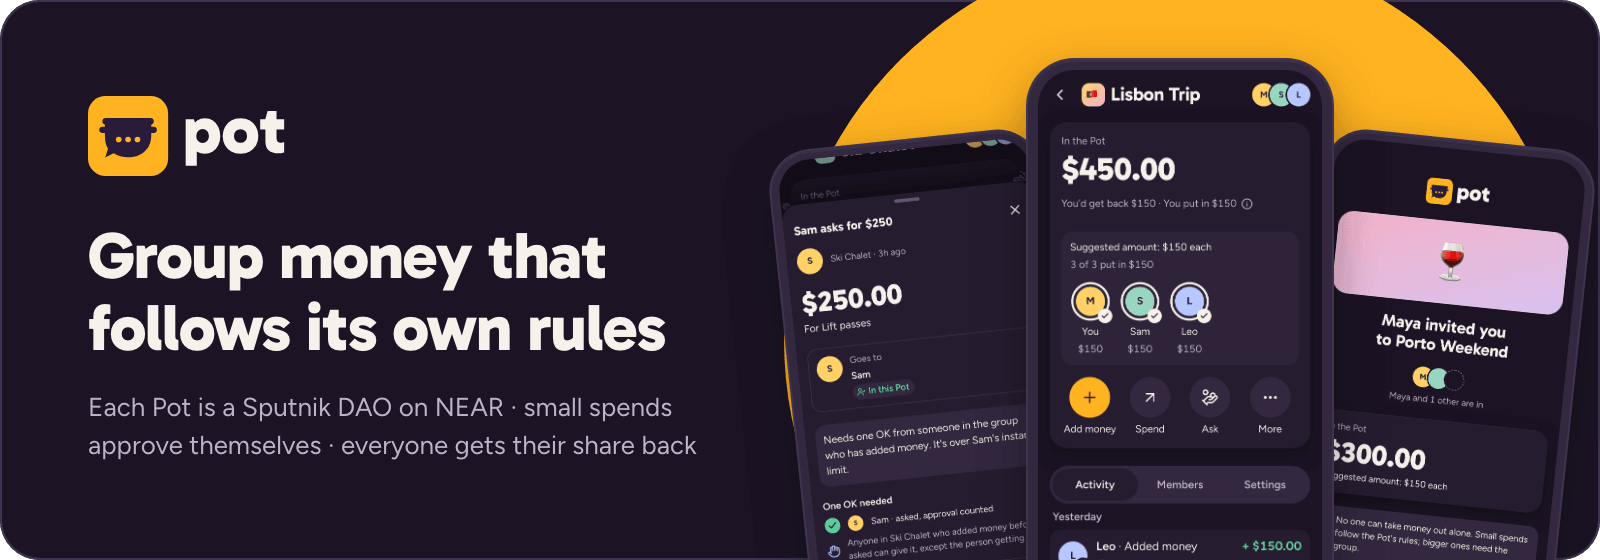
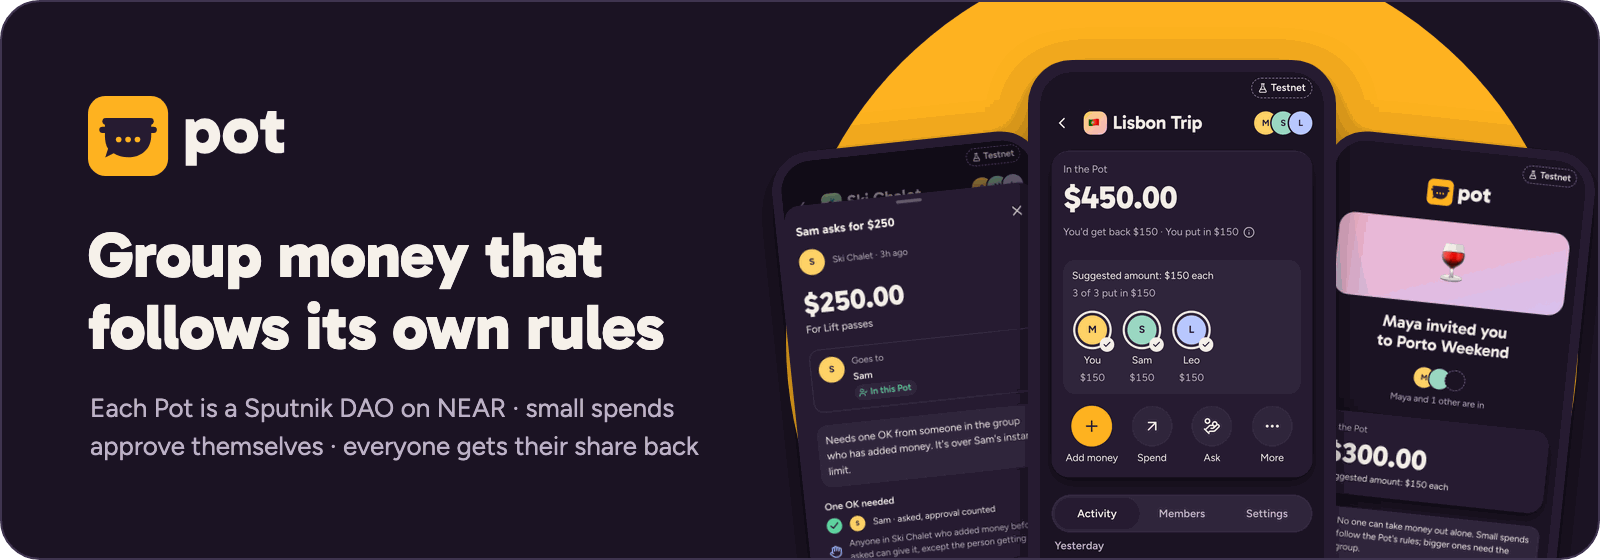
README visuals match the app again; the go-live runbook for RC-1
- six of the seven README images re-shot from the current mock build: the Testnet badge on every app screen,
  "Free test dollars" and "Test dollars" where the screens said demo dollars; alt text updated to match
- LAUNCH.md: what's prepared for the final testnet deploy and the go-live runbook, in order

diff --git a/LAUNCH.md b/LAUNCH.md
@@ -125,17 +125,26 @@ Goal by end of day: the app runs at `https://<project>.vercel.app` on testnet, `
 ## Days 11-12 (Nov 11-12): release and lock
 
 - [ ] **[Claude] Final regression** on the live URL: contracts, unit, mock e2e, integrations tier, the live backend suite, `scripts/e2e-chain.ts`, every testnet suite, the README CLI check.
-- [ ] **Final testnet deploy, before the lock.** Found by the blind AI-judge run on Nov 6 and held back until now on purpose: editing `Cargo.toml` changes the compiled wasm, and the deployed hub must stay identical to the source build until this redeploy.
-  - **[Claude]** Fix the hub's on-chain build info (NEP-330, the `contract_source_metadata` view). It reports `version: "1.0.0"` and `link: https://github.com/pot-app/pot`.
-    - Set `contracts/pot-hub/Cargo.toml` `version` to the hub's real version (the `version` that `get_config` returns).
-    - Point the repository at `https://github.com/ceraselamardare/pot`. The workspace `contracts/Cargo.toml` `repository` is inherited by `test-usdc` too. Change it there and redeploy the test token as well, or override `repository` in `pot-hub/Cargo.toml` only.
-    - Build without local file paths. A plain build embeds the builder's home-folder paths in panic messages. Use `--remap-path-prefix` in the rustc flags, or the Docker `reproducible-wasm` build, which also lets anyone reproduce the hash. Check that `strings target/near/pot_hub/pot_hub.wasm | grep /Users/` prints nothing.
-    - Rebuild (`./scripts/build.sh`). Run the contract tests. Then **[You]** approve the redeploy. Check with `contract_source_metadata`, and check that the deployed code hash equals the local build's.
-  - **[Claude]** Make a public reference Pot under the current rules (members only give OKs; the hub files every request) and run the whole story in it on the final hub: create, two joins, adds, an instant spend, a one-OK spend, a group vote, a gift, a pay link, a spend with a scanned receipt, a simulated cross-chain add, and the close with refunds. Extend `scripts/e2e-chain.ts` to print `docs/proofs.json` entries. **[You]** approve the transactions.
-    - Point J-7 in `docs/judging-guide.md` at it (the current example `lisbon-trip` is policy v1), and replace the interim hashes in `docs/proofs.json` (J-10), which today come from earlier test runs and from people trying the app.
-    - Run `node scripts/verify-proofs.mjs` and `node scripts/check-readme-steps.ts`.
-  - **[Claude]** Re-run `scripts/readme-cli-check.sh` and the README drift check, and update any account names or outputs in the guide that changed.
-  - **[You]** Check that CI (GitHub Actions) is green on the final `main`. The blind judge couldn't see it while the repo was private.
+- [ ] **Final testnet deploy, before the lock: go live from RC-1.** Found by the blind AI-judge run on Nov 6 and held back on purpose: editing `Cargo.toml` changes the compiled wasm, and `main` must keep building the deployed hub until the redeploy.
+  - [x] **[Claude] Prepared on Nov 9 (nothing signed):**
+    - Branch `final-deploy` (`39123cf`): `pot-hub` version 1.3.0 (and `get_config` reads it from `Cargo.toml`), the repository `https://github.com/ceraselamardare/pot`; the locked test token keeps its old link so its source still builds its deployed code (`8253d223…`, unchanged). `contracts/scripts/build.sh` and the test harness build the hub with the home folder remapped: 0 local paths in the wasm.
[1 lines of base64/hex data omitted]
+    - Branch `rc-1` = `main` + `final-deploy` (local, not pushed).
+    - The reference story (`scripts/run e2e-chain --reference`, on `main` since `9035ab6`), the secret scan, and the full regression of the app on `main`.
+  - **Go-live runbook (in this order):**
+    1. **[You]** Push `main` (the app; it doesn't touch the hub). Wait for Vercel; **[Claude]** checks `/api/health`.
+    2. **[You]** On the account that holds the hub key, check the file and deploy it, as ONE DeployContract with no init call (1.3.0 → 1.3.0: the state is unchanged, so no `migrate`):
+       ```bash
+       shasum -a 256 /Users/Shared/pot-hub-1.3.0-fa7af2fb.wasm   # must print fa7af2fb7f612acd…d5d984
+       npx -y near-cli-rs@0.30.1 contract deploy pots.potprev.testnet use-file /Users/Shared/pot-hub-1.3.0-fa7af2fb.wasm without-init-call network-config testnet sign-with-legacy-keychain send
+       ```
+       Rollback: the same command with `/Users/Shared/pot-hub-1.3.0-rollback-79c94df5.wasm` (today's hub, sha256 `79c94df5…`, on chain `9CQNEp6…`).
+    3. **[Claude]** Read-only checks: the hub's code hash is `HrmfMaz3…`; `contract_source_metadata` shows version 1.3.0 and the real repository; `get_config.version` is 1.3.0; an old Pot still reads (`get_pot`), and `node scripts/verify-proofs.mjs` still holds.
+    4. **[Claude]** Fast-forward `main` to `rc-1`; **[You]** push. Source and deployment match again (a judge can rebuild the hub and get `fa7af2fb…`).
+    5. **[You]** Approve the reference story; **[Claude]** runs it (about 0.23 NEAR and $650 of test dollars, $600 of it from the faucet's $1,000-a-day limit): `scripts/with-testnet-lock.sh scripts/run e2e-chain --reference --proofs docs/proofs.json` against a local `next start` with `FLAG_GIFTS=true`. It writes `docs/proofs.json` only if every proof holds on chain.
+    6. **[Claude]** Then: regenerate J-10 (`node scripts/verify-proofs.mjs --markdown`), point J-7 and `scripts/readme-cli-check.sh` at the new Pot (it ends closed: `status: "closed"`, balance 0, `policy_version: 3`), update the reference Pot in `apps/web/lib/marketing/llms.ts`, and run `scripts/judge-check.sh`. Optional: re-point the demo's Part 4 "real equivalent" at the new one-OK transaction. **[You]** push.
+    7. **[Claude]** A last blind AI-judge run on a fresh clone; fix what it finds.
+    8. **[You]** Check that CI (GitHub Actions) is green on the final `main` once the repo is public.
 - [ ] **[You] Lock the hub** (`pots.potprev.testnet`): delete its full-access key per `plan/accounts-and-deploy.md`.
   - After the lock nobody can fix the contract; the fallback is a redeploy as `pots-v2`.
   - **[Claude]** then runs `EXPECT_HUB_LOCKED=1 scripts/readme-cli-check.sh` and updates the README line about keys.

diff --git a/README.md b/README.md
@@ -1,6 +1,6 @@
 <picture>
   <source media="(prefers-color-scheme: dark)" srcset="docs/readme/banner-dark.png">
-  <img src="docs/readme/banner-light.png" alt="The Pot logo with the headline &quot;Group money that follows its own rules&quot; and the line &quot;Each Pot is a Sputnik DAO on NEAR · small spends approve themselves · everyone gets their share back&quot;, next to three real app screens: Sam asking for $250, Lisbon Trip's $450.00 balance with a suggested amount ring per person, and the invite &quot;Maya invited you to Porto Weekend&quot;.">
+  <img src="docs/readme/banner-light.png" alt="The Pot logo with the headline &quot;Group money that follows its own rules&quot; and the line &quot;Each Pot is a Sputnik DAO on NEAR · small spends approve themselves · everyone gets their share back&quot;, next to three real app screens: Sam asking for $250, Lisbon Trip's $450.00 balance with a suggested amount ring per person, and the invite &quot;Maya invited you to Porto Weekend&quot;, each with the small &quot;Testnet&quot; badge at the top.">
 </picture>
 
 # Pot: group money that follows its own rules, on NEAR
@@ -40,24 +40,24 @@ key is deleted before mainnet. See [Security](#security).)
 code. Friends see the Pot before they sign in, then join with a NEAR wallet (Google sign-in works on a local run for
 now). Nobody pays gas.
 
-![Three Pot screens: the "Start a Pot" sheet for "Ski Weekend" with a $150 suggested amount and the rule that small spends up to $100 go through on their own; the "Invite friends to Ski Weekend" sheet with a QR code and Share link; and the page a friend sees before signing in, "Maya invited you to Porto Weekend".](docs/readme/strip-start.png)
+![Three Pot screens: the "Start a Pot" sheet for "Ski Weekend" with a $150 suggested amount and the rule that small spends up to $100 go through on their own; the "Invite friends to Ski Weekend" sheet with a QR code and Share link; and the page a friend sees before signing in, "Maya invited you to Porto Weekend". Each screen shows the small "Testnet" badge at the top.](docs/readme/strip-start.png)
 
 **Spend with rules, not with permission.** A small spend within the limits is approved instantly by the contract.
 A bigger one needs one OK from another member; anything bigger goes to a group vote. Everyone sees who the money goes
 to before they approve, and each person's limit grows as they build a track record.
 
-![Three Pot screens: an $84 groceries spend from Lisbon Trip marked "Approved by Pot rules" and "Sent"; Sam asking for $250 for lift passes, with a "Goes to Sam, In this Pot" block, "One OK needed" and an "OK $250" button; and an activity feed where each spend carries its approval: Needs one OK, One OK or Instant.](docs/readme/strip-spend.png)
+![Three Pot screens: an $84 groceries spend from Lisbon Trip marked "Approved by Pot rules" and "Sent"; Sam asking for $250 for lift passes, with a "Goes to Sam, In this Pot" block, "One OK needed" and an "OK $250" button; and an activity feed where each spend carries its approval: Needs one OK, One OK or Instant. The first two show the small "Testnet" badge at the top.](docs/readme/strip-spend.png)
 
 **Money in from anywhere.** Members add money from their Pot balance or from another app or exchange on another
 chain, through NEAR Intents (simulated on testnet, with real live quotes). People outside the group can chip in too, through a pay-in link or a public
 page.
 
-![Three Pot screens: Add money to Lisbon Trip with three ways to add $50 (demo dollars, Pot dollars, another app or exchange); the details of Leo's $300 that arrived as 0.1293 ETH from Base, with a five-step timeline; and the "Pay Lisbon Trip" page of a $25 pay-in link for someone outside the Pot.](docs/readme/strip-money-in.png)
+![Three Pot screens: Add money to Lisbon Trip with three ways to add $50 ("Free test dollars", Pot dollars, another app or exchange); the details of Leo's $300 that arrived as 0.1293 ETH from Base, with a five-step timeline; and the "Pay Lisbon Trip" page of a $25 pay-in link for someone outside the Pot. The first and last show the small "Testnet" badge at the top.](docs/readme/strip-money-in.png)
 
 **See the group, then share it back.** Each member's row shows what they put in and what they'd get back. A suggested
 amount each shows who has chipped in. When the group agrees to close, everyone is paid their share in one go.
 
-![Three Pot screens: Lisbon Trip's $450.00 balance with "Suggested amount: $150 each" and a filled ring for each of Maya, Sam and Leo; the Members tab, where each put in $150.00, used $0.00 and gets back $150.00; and the "Close Lisbon Trip?" sheet with who gets what back and "Ask the group to close".](docs/readme/strip-group.png)
+![Three Pot screens: Lisbon Trip's $450.00 balance with "Suggested amount: $150 each" and a filled ring for each of Maya, Sam and Leo; the Members tab, where each put in $150.00, used $0.00 and gets back $150.00; and the "Close Lisbon Trip?" sheet with who gets what back and "Ask the group to close". The first and last show the small "Testnet" badge at the top.](docs/readme/strip-group.png)
 
 ## Try it
 
